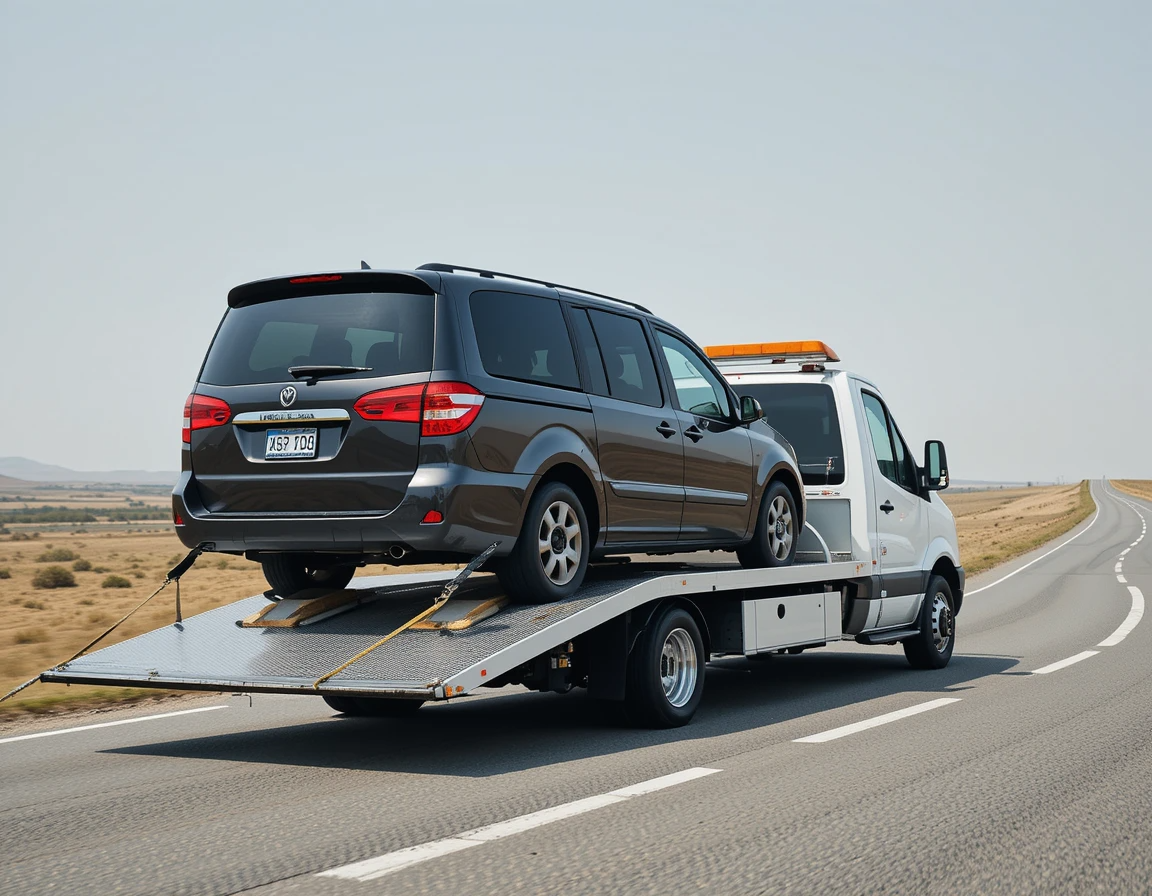
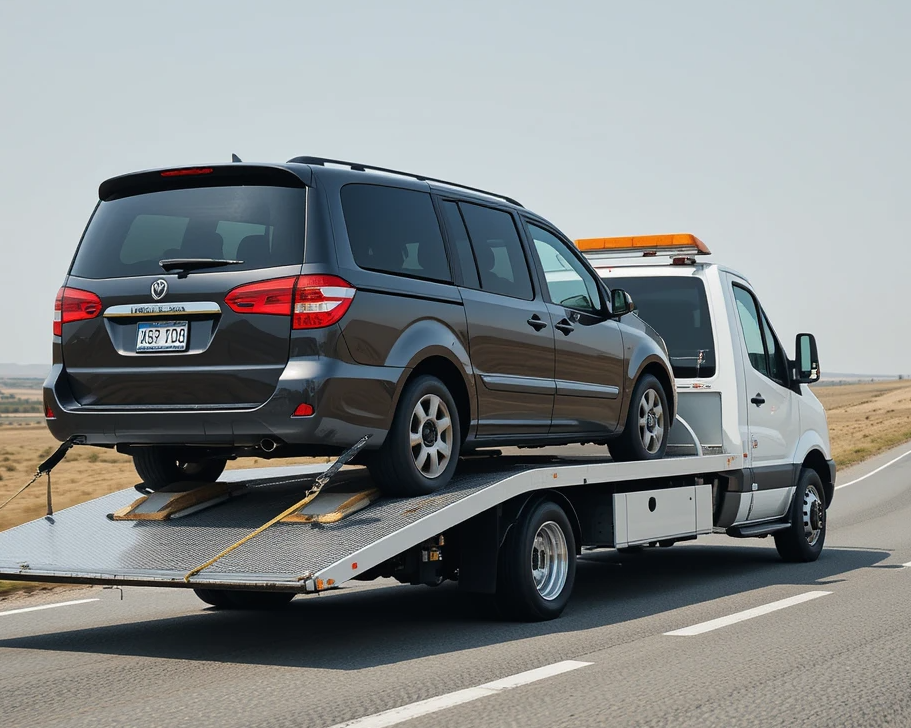
edit

diff --git a/evacuation/css/style.scss b/evacuation/css/style.scss
@@ -114,6 +114,9 @@ footer {
 .logo {
     height: 100%;
     max-width: 345px;
+    img {
+        height: 100%;
+    }
 }
 
 .call {
@@ -163,32 +166,6 @@ footer {
 //     flex-direction: row;
 //     width: 100%;
 // }
-
-.card {
-    display: flex;
-    flex-direction: column;
-    align-items: flex-start;
-    justify-content: space-between;
-    gap: 10px;
-    max-width: 330px;
-    width: 30%;
-    max-height: 100%;
-    height: 500px;
-    -webkit-backdrop-filter: blur(11px);
-    backdrop-filter: blur(2px);
-    background-color: rgb(255 255 255 / 34%);
-    border-radius: 30px;
-    box-shadow: 0px 12px 17px 12px rgba(34, 60, 80, 0.67);
-    border: 3px solid rgba(255, 255, 255, 0.2901960784);
-}
-
-.card:hover {
-    color: orange;
-    box-shadow: 0 0 5px white, 0 0 10px white, 0 0 15px white, 0 0 20px #ff4b00, 0 0 35px #ff4b00, 0 0 40px #ff4b00, 0 0 50px #ff4b00, 0 0 75px #ff4b00;
-    transform: translateY(-10px) scale(1.1);
-    z-index: 1;
-    border: 3px solid #ffffff;
-}
 
 h1 {
     font-family: "Blazma", sans-serif;
@@ -319,8 +296,38 @@ h1 {
     width: 100%;
     justify-content: space-between;
     gap: 30px;
-    height: 45vh;
-    align-items: flex-end;
+    height: 46vh;
+    align-items: center;
+}
+
+.card {
+    display: flex;
+    flex-direction: column;
+    align-items: flex-start;
+    justify-content: space-between;
+    gap: 10px;
+    max-width: 330px;
+    width: 30%;
+    max-height: 100%;
+    height: 420px;
+    -webkit-backdrop-filter: blur(11px);
+    backdrop-filter: blur(2px);
+    background-color: rgb(255 255 255 / 34%);
+    border-radius: 30px;
+    box-shadow: 0px 12px 17px 12px rgba(34, 60, 80, 0.67);
+    border: 3px solid rgba(255, 255, 255, 0.2901960784);
+}
+
+.card:hover {
+    color: orange;
+    box-shadow: 0 0 5px white, 0 0 10px white, 0 0 15px white, 0 0 20px #ff4b00, 0 0 35px #ff4b00, 0 0 40px #ff4b00, 0 0 50px #ff4b00, 0 0 75px #ff4b00;
+    transform: scale(1.05);
+    // max-width: 333px;
+    // width: 31%;
+    // max-height: 101%;
+    // height: 505px;
+    z-index: 1;
+    border: 3px solid #ffffff;
 }
 
 h2 {

diff --git a/evacuation/css/style.css b/evacuation/css/style.css
@@ -113,6 +113,9 @@ footer {
   height: 100%;
   max-width: 345px;
 }
+.logo img {
+  height: 100%;
+}
 
 .call {
   display: flex;
@@ -145,32 +148,6 @@ footer {
   align-items: center;
   justify-content: space-between;
   flex-direction: column;
-}
-
-.card {
-  display: flex;
-  flex-direction: column;
-  align-items: flex-start;
-  justify-content: space-between;
-  gap: 10px;
-  max-width: 330px;
-  width: 30%;
-  max-height: 100%;
-  height: 500px;
-  -webkit-backdrop-filter: blur(11px);
-  backdrop-filter: blur(2px);
-  background-color: rgba(255, 255, 255, 0.34);
-  border-radius: 30px;
-  box-shadow: 0px 12px 17px 12px rgba(34, 60, 80, 0.67);
-  border: 3px solid rgba(255, 255, 255, 0.2901960784);
-}
-
-.card:hover {
-  color: orange;
-  box-shadow: 0 0 5px white, 0 0 10px white, 0 0 15px white, 0 0 20px #ff4b00, 0 0 35px #ff4b00, 0 0 40px #ff4b00, 0 0 50px #ff4b00, 0 0 75px #ff4b00;
-  transform: translateY(-10px) scale(1.1);
-  z-index: 1;
-  border: 3px solid #ffffff;
 }
 
 h1 {
@@ -288,8 +265,34 @@ h1 {
   width: 100%;
   justify-content: space-between;
   gap: 30px;
-  height: 45vh;
-  align-items: flex-end;
+  height: 46vh;
+  align-items: center;
+}
+
+.card {
+  display: flex;
+  flex-direction: column;
+  align-items: flex-start;
+  justify-content: space-between;
+  gap: 10px;
+  max-width: 330px;
+  width: 30%;
+  max-height: 100%;
+  height: 420px;
+  -webkit-backdrop-filter: blur(11px);
+  backdrop-filter: blur(2px);
+  background-color: rgba(255, 255, 255, 0.34);
+  border-radius: 30px;
+  box-shadow: 0px 12px 17px 12px rgba(34, 60, 80, 0.67);
+  border: 3px solid rgba(255, 255, 255, 0.2901960784);
+}
+
+.card:hover {
+  color: orange;
+  box-shadow: 0 0 5px white, 0 0 10px white, 0 0 15px white, 0 0 20px #ff4b00, 0 0 35px #ff4b00, 0 0 40px #ff4b00, 0 0 50px #ff4b00, 0 0 75px #ff4b00;
+  transform: scale(1.05);
+  z-index: 1;
+  border: 3px solid #ffffff;
 }
 
 h2 {

diff --git a/evacuation/index.html b/evacuation/index.html
@@ -17,7 +17,7 @@
     <header>
       <div class="menu">
         <a href="index.html">
-          <div class="logo"><img src="images/AvtoEvo-2.png" alt="Logo"></div>
+          <div class="logo"><img src="images/logo-p.png" alt="Logo"></div>
         </a>
         <div class="call">
           <div class="wrap">
@@ -47,7 +47,7 @@
         </div>
         <div class="inframe_box">
           <div class="card">
-            <div class="images"><img src="/evacuation/images/passcar.png" alt="passcar"></div>
+            <div class="images"><img src="/evacuation/images/passcar.webp" alt="passcar"></div>
             <div class="info">
               <div class="cost">
                 <p>от 50 руб.</p>
@@ -62,7 +62,7 @@
             <button></button>
           </div>
           <div class="card">
-            <div class="images"><img src="/evacuation/images/crossover.png" alt="crossover"></div>
+            <div class="images"><img src="/evacuation/images/crossover.webp" alt="crossover"></div>
             <div class="info">
               <div class="cost">
                 <p>от 50 руб.</p>
@@ -77,7 +77,7 @@
             <button></button>
           </div>
           <div class="card">
-            <div class="images"><img src="/evacuation/images/minivan.png" alt="minivan"></div>
+            <div class="images"><img src="/evacuation/images/minivan-2.webp" alt="minivan"></div>
             <div class="info">
               <div class="cost">
                 <p>от 50 руб.</p>
@@ -92,7 +92,7 @@
             <button></button>
           </div>
           <div class="card">
-            <div class="images"></div>
+            <div class="images"><img src="/evacuation/images/qudrocycle.webp" alt="qudrocycle"></div>
             <div class="info">
               <div class="cost">
                 <p>от 50 руб.</p>
